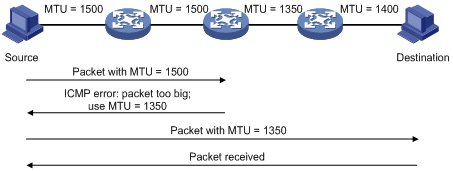
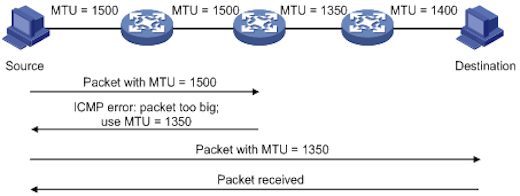
fixed some typos and resized the screenshots

diff --git a/index.html b/index.html
@@ -56,7 +56,7 @@
 
 				<!-- Folie 2-->
 				<section>
-					<h3>Warum IPv6</h3>
+					<h3>Was ist IPv6</h3>
 					<ul>
 						<li class="fragment">wird von IETF (Internet Engineering Task Force) seit 1995 entwickelt
 						<li class="fragment">hieß ursprünglich IP Next Generation</li>
@@ -129,28 +129,11 @@
 						IPv6: 2001:6f8:900:90f6:bc69:ec97:29ab:8c34
 					</p>
 					<aside class="notes">
-<<<<<<< HEAD
 						<li>Adressen sind jetzt 128 Bit lang. Damit sind 2 hoch 128 Adressen möglich.</li>
         				<li>IPv6 bedeutet nicht nur das die Adressen länger werden. Es verändern sich grundlegende Dinge.</li>
         				<li>Urban Legend: Jedes Atom kann eine IPv6 Adresse haben. > geht nicht, falls man davon aus geht, dass die Erde einen Eisenkern hat. Aber für jedes Sandkorn würde es reichen.</li>
     				</aside>
 				</section>
-=======
-        				Oh hey, these are some notes. They'll be hidden in your presentation, but you can see them if you open the speaker notes window (hit 's' on your keyboard).
-    				</aside>
-					</section>
-					<section>
-						<p>Nicht nur länger sondern ...</p>
-						<ol>
-							<li class="fragment"><code>komplett anderer Header</code></li>
-							<li class="fragment"><em>keine</em> Subnetzmaske mehr</li>
-							<li class="fragment">neue Zuteilungsmöglichkeit über RA</li>
-							<li class="fragment"><strong>keine</strong> Broadcasts mehr</li>
-							<li class="fragment">Clients weisen sich selbst Adressen zu</li>
-							<li class="fragment">neue Minimum MTU</li>
-							<li class="fragment">verschieden Schreibweisen möglich</li>
-						</ol>
->>>>>>> FETCH_HEAD
 
 				<!-- Folie 8-->
 				<section>
@@ -164,12 +147,10 @@
 					<li>Hop Limit (8 bits) = wird um 1 dekrementiert und bei 0 wirft der Router das Paket weg.</li>
 					<li>TTL (8Bit) ist auch raus. TTL wurde pro Sekunde runterzählt und von jedem Router um eins dekrementiert. Dafür gibt es jetzt das Hoplimit</li>
 					<li>Source Address (128 bits) - *Destination Address (128 bits)</li>
-					<p>Zusatzinfos werden nicht mehr im Eigentlichen Header untergebracht, sondern bei Bedarf als Extension Header hinter dem Fixed Header eingefügt. Falls ein Router den Ext. Header nicht versteht, wird das Paket gedroppt und ein Parameter Problem message (ICMPv6 type 4, code 1) zurückgeschickt.
-					</p>
-					<p>
-					Rausgefallen ist die Checksum, weil die jedesmal bei Änderung der TTL vom Router neu erzeugt werden muss und deshalb Performance frist.
-					</p>
-					<p>Fun Fact: Mit IPv6 kann man ein Jumbogram versenden. Payload fast 4GB. (Muss im Transport Layer implementiert sein)</p>
+					<li>Zusatzinfos werden nicht mehr im Eigentlichen Header untergebracht, sondern bei Bedarf als Extension Header hinter dem Fixed Header eingefügt. Falls ein Router den Ext. Header nicht versteht, wird das Paket gedroppt und ein Parameter Problem message (ICMPv6 type 4, code 1) zurückgeschickt.
+					</li>
+					<li>Rausgefallen ist die Checksum, weil die jedesmal bei Änderung der TTL vom Router neu erzeugt werden muss und deshalb Performance frist.</li>
+					<li>Fun Fact: Mit IPv6 kann man ein Jumbogram versenden. Payload fast 4GB. (Muss im Transport Layer implementiert sein)</li>
 				</aside>
 				</section>
 				<!-- Folie 9-->
@@ -193,7 +174,7 @@
 				</section>		
 				<!-- Folie 11-->
 				<section>
-					<h3>Adressvergabe auf dem Interface</h3>
+					<h3>Adressvergabe</h3>
 					<h5>1. Link Local</h5>
 						<p>Link Local Range: fe80::/10</p>
 						<p>BSP: fe80::7ed1:c3ff:fe76:59d0%en1</p>
@@ -209,7 +190,7 @@
 				</section>
 				<!-- Folie 12-->
 				<section>
-					<h3>Adressvergabe auf dem Interface</h3>
+					<h3>Adressvergabe</h3>
 					<h5>2. Site Local</h5>
 						<p>Site Local Range: fec0::/10</p>
 						<p>Seit 2004 decprecated</p>
@@ -220,7 +201,7 @@
 				</section>
 				<!-- Folie 13-->
 				<section>
-					<h3>Adressvergabe auf dem Interface</h3>
+					<h3>Adressvergabe</h3>
 					<h5>3. Unique Local Address</h5>
 						<p>Unique Local Address Range: fd00::/8</p>
 						<p>BSP: fd9e:21a7:a92c:2323::1</p>
@@ -234,7 +215,7 @@
 				</section>
 				<!-- Folie 14-->
 				<section>
-					<h3>Adressvergabe auf dem Interface</h3>
+					<h3>Adressvergabe</h3>
 					<h5>4. Loopback</h5>
 						<p>Loopback: ::1/128</p>						
 					<aside class="notes">
@@ -243,7 +224,7 @@
 				</section>
 				<!-- Folie 15-->
 				<section>
-					<h3>Adressvergabe auf dem Interface</h3>
+					<h3>Adressvergabe</h3>
 					<h5>5. Multicast</h5>
 						<p>Multicast: ff00::/8</p>
 						<li>ff01::1, ff02::1: - All Nodes</li>
@@ -254,12 +235,14 @@
 				</section>
 				<!-- Folie 16-->
 				<section>
-					<h3>Adressvergabe auf dem Interface</h3>
+					<h3>Adressvergabe</h3>
 					<h5>6. Global Unicast - Öffentliche Adressen</h5>
 						<p>Global Unicast Range: alles was noch nicht anderweitig reserviert ist</p>
+						<ul>
 						<li>0:0:0:0:0:ffff::/96 - IPv4 Mapped Addresses</li>
 						<li>64:ff9b::/96 - NAT64</li>
 						<li>2000::/3  ( 2000… bis 3fff… ) bezeichnet den weltweit routbaren Bereich</li>
+					</ul>
 					<aside class="notes">
 						<li>IPv4 Mapped Addresses enthalten in den letzten 32 Bit die IPv4 Adresse und können von einem geeigneten Router konvertiert werden z.b. z.B. ::ff.8.8.8.8</li>
 						<li>NAT64 übersetzt IPv4 in IPv6</li>						
@@ -267,7 +250,7 @@
 				</section>
 				<!-- Folie 17-->
 				<section>
-					<h3>Adressvergabe auf dem Interface</h3>
+					<h3>Adressvergabe</h3>
 					<h5>6.1. Global Unicast - Öffentliche Adressen</h5>
 					<p>2000::/3 unterteilt man in</p>
 					<li>2001::/32 - wird vom Teredo Tunnel benutzt</li>
@@ -284,7 +267,7 @@
 					<h3>möglicher Ablauf der Autokonfiguration</h3>
 					<ol>
 						<li>Der Client weißt sich selbst eine Link Local Adresse zu (fe80::/10)</li>
-						<li>Client starte Neighbour Discovery (ND) indem ein Anfrage an die Multicast Adresse ff02::2 (all Routers) gesendet wird (Router Solicitation)</li>
+						<li>Client starte Neighbour Discovery (ND) indem eine Anfrage an die Multicast Adresse ff02::2 (all Routers) gesendet wird (Router Solicitation)</li>
 						<li>Die angesprochenen Router senden die möglichen Präfixe als Router Advertisment zurück</li>
 						<li>Der Client hängt an den Präfix seinen Interface Identifier an, den er schon für die Link Local Adresse benutzt hat</li>
 					</ol>
